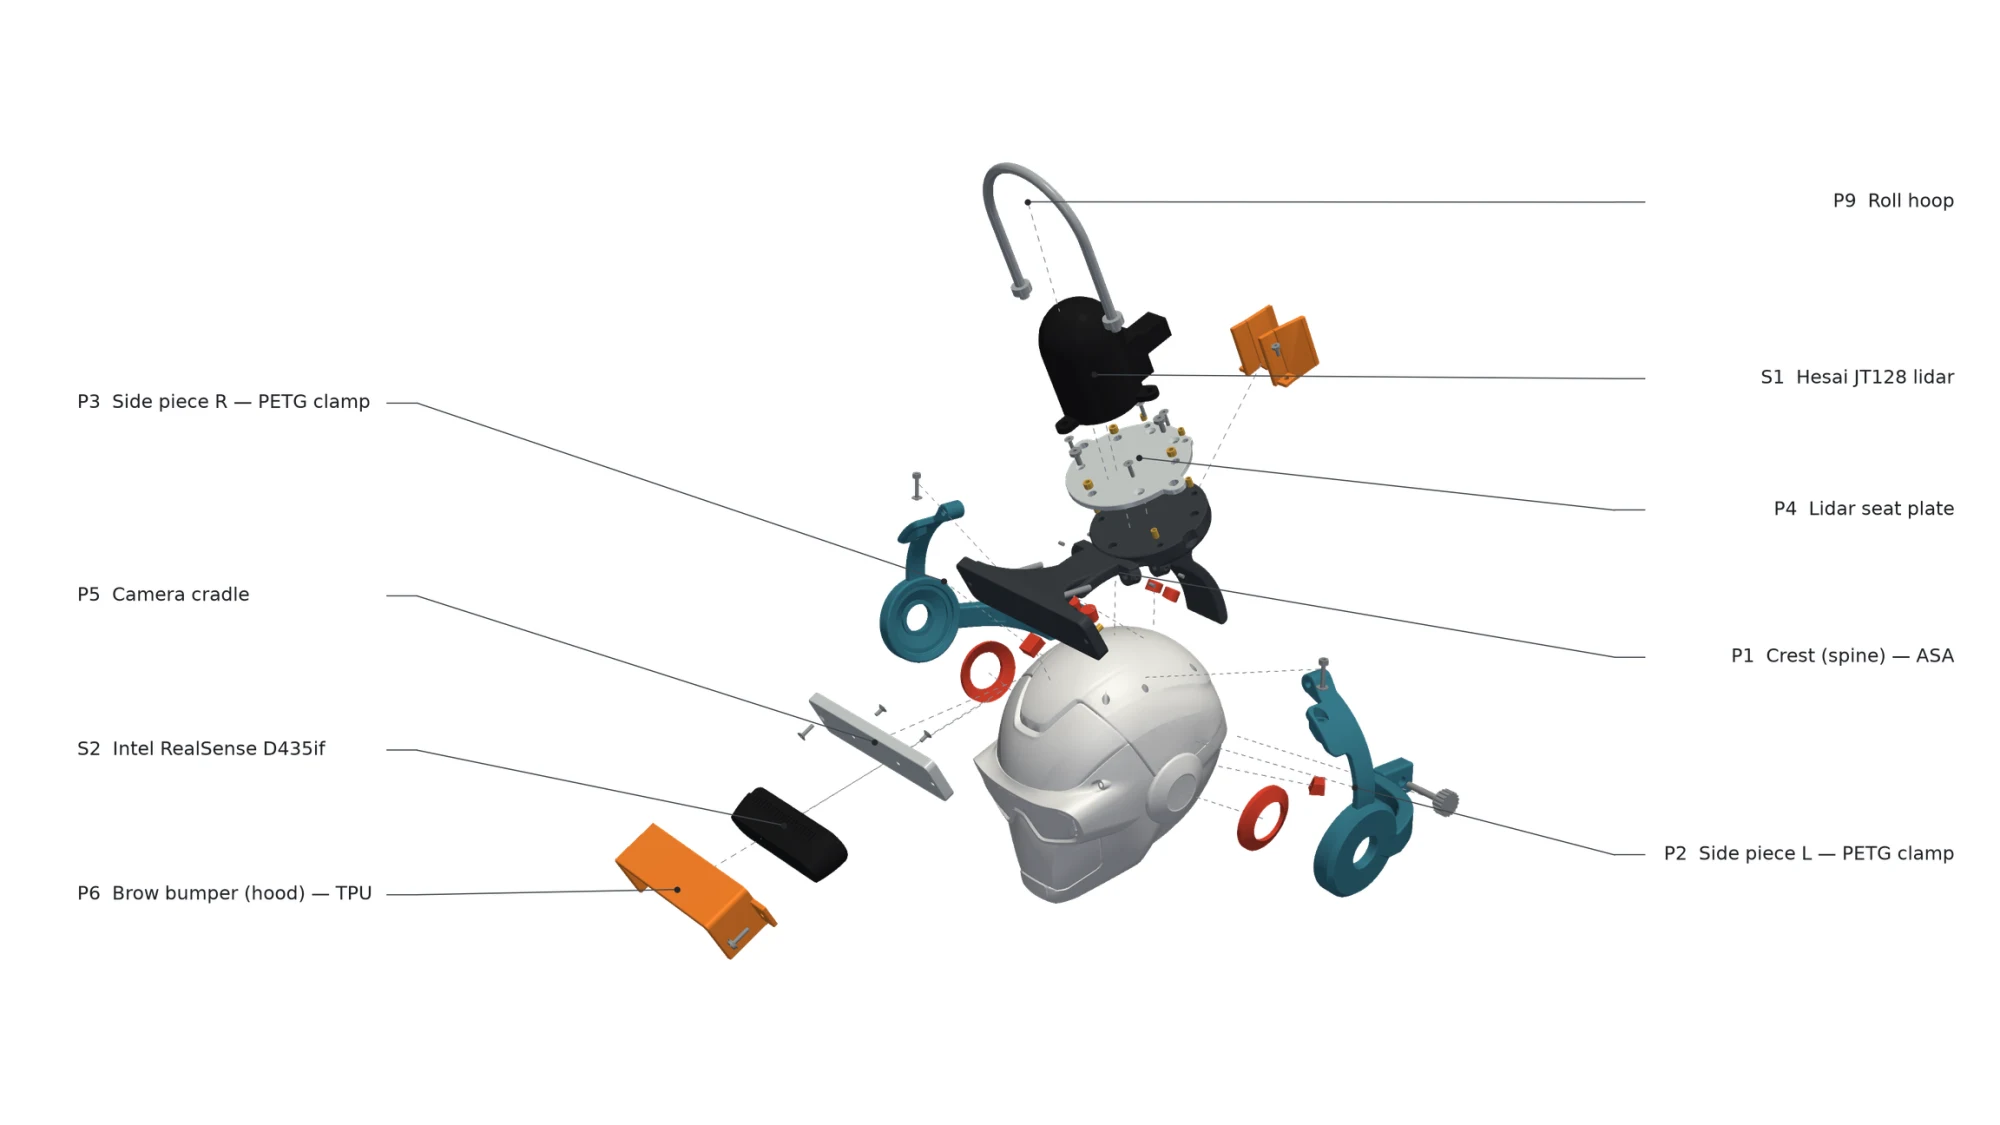
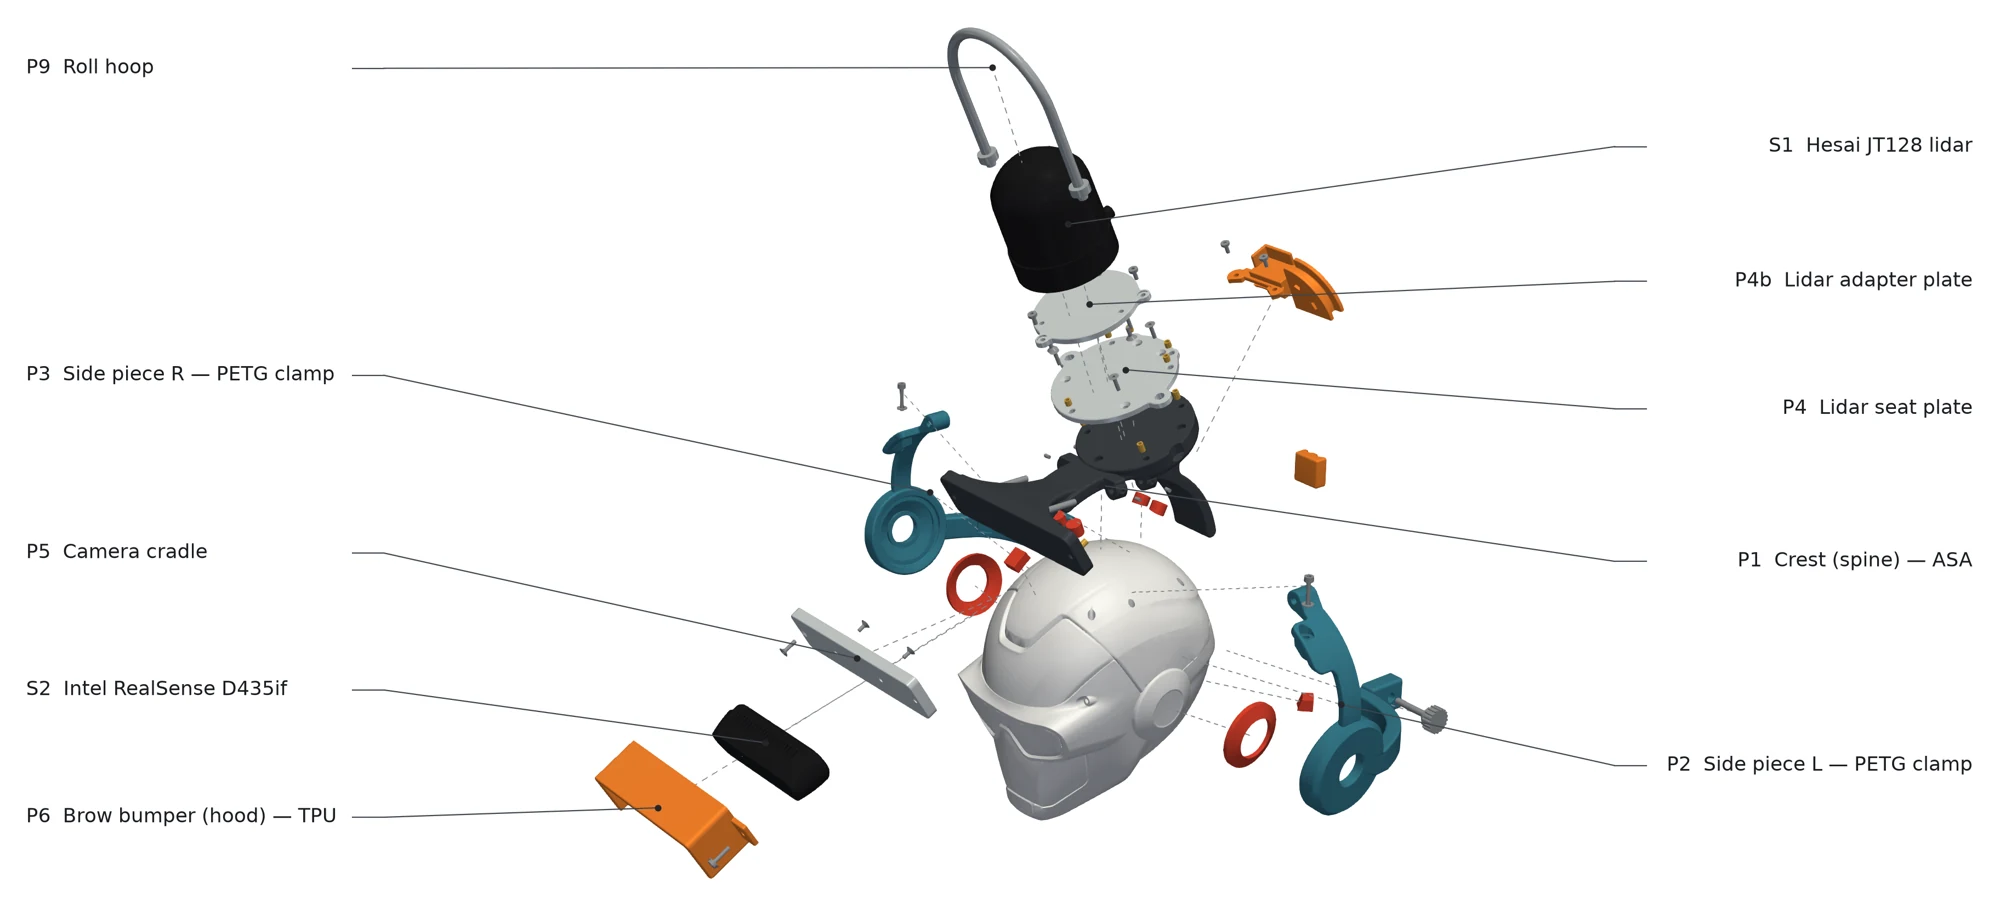
Add the cable management box to section 6, and sharper helmet renders
Two new figures show the v2.6 cable box (on the robot, assembled and exploded,
CAD renders), and the helmet's assembled and exploded views are now the current
v0.10 renders instead of the blurry 640 px image and the pre-JT128 exploded view.

diff --git a/docs/interim-report/sections/06-helmet.md b/docs/interim-report/sections/06-helmet.md
@@ -10,7 +10,7 @@ comes with neither, so we designed a clamp-on sensor helmet for its head (Figure
 holds a Hesai JT128 lidar on top, with a clear view all round, and an Intel RealSense D435if depth
 camera at the front, angled down at the area in front of the robot.
 
-![fig:helmet | CAD render of the sensor helmet on the R1's head: JT128 lidar on top, RealSense depth camera at the front](../assets/hardware/sensor-helmet.webp)
+![fig:helmet | CAD render of the sensor helmet on the R1's head: JT128 lidar on top, RealSense depth camera at the front](../assets/interim/helmet-assembled.webp)
 
 ![fig:helmet-exploded | Exploded view of the helmet's parts](../assets/interim/helmet-exploded.webp)
 
@@ -21,6 +21,20 @@ head and preload the pads. The parts are 3D-printed in PETG, with heat-set inser
 The latest version replaces the lidar mount, after we found that the real JT128 has no mounting
 flange, only screw holes in its base.
 
-> TODO (Wei Sheng): add the print settings, the total mass and the fit test result on the robot.
-> Cable routing for the lidar's right-angle plug is still open; mention it under shortcomings if it
-> is not solved by submission.
+The helmet's two cables, the lidar lead and the camera's USB-C cable, run down to a cable management
+box that hangs on the R1's back, behind its onboard computer (Figure [[fig:cable-box]]). As the head
+turns, the cables pull a pulley up a sliding carriage inside the box, which stores up to 235 mm of
+cable: enough for the head to turn ±80° while the cables stay clear of the neck and torso. The box
+also holds a USB hub for the Wi-Fi dongle, the lidar's cable splitter and a spool for the lidar
+lead's spare length (Figure [[fig:cable-box-exploded]]). It is built from 3 mm laser-cut acrylic
+panels between 3D-printed PETG end caps, and it hooks over the robot's back handle and straps to its
+frame, again without modifying the robot. In CAD, the head and helmet clear it by at least 14 mm
+over the neck's full range; the box has not yet been built or fitted.
+
+![fig:cable-box | The cable management box (CAD renders of the current design): (a) hung on the R1's back, with the lidar lead (red) and the camera cable (blue) running down from the helmet; (b) assembled, with the acrylic panels drawn clear to show the take-up pulley, hub, spool and splitter inside](../assets/interim/helmet-cable-box.webp)
+
+![fig:cable-box-exploded | Exploded view of the cable management box (CAD render)](../assets/interim/cable-box-exploded.webp)
+
+> TODO (Wei Sheng): add the print settings, the total mass and the fit test result on the robot. The
+> cable box is designed and checked in CAD but not yet built: update this section once it is fitted,
+> or note it under shortcomings if it is not by submission.
